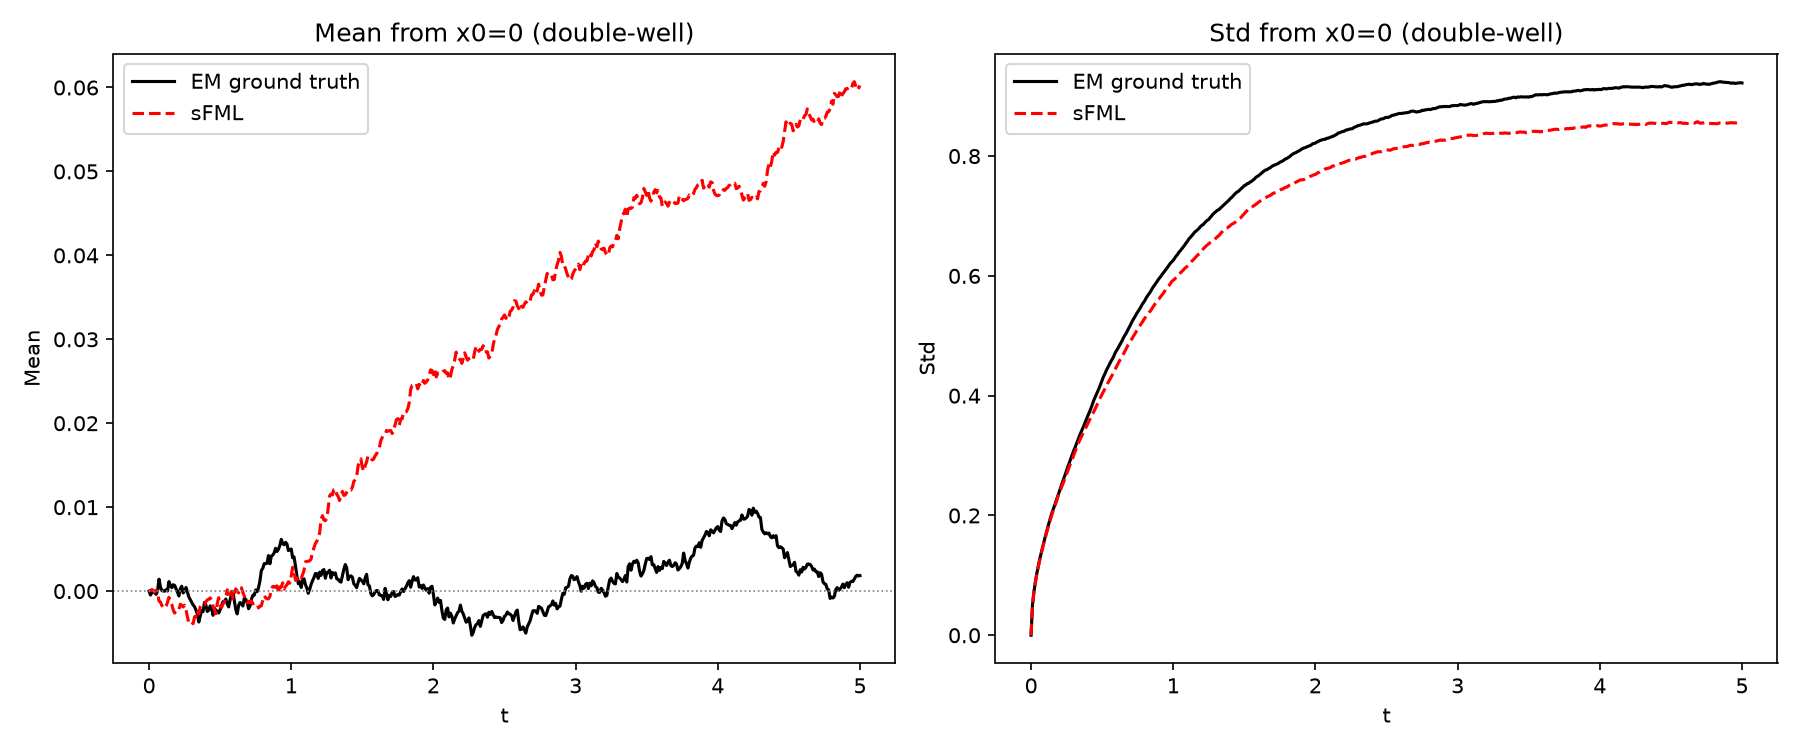
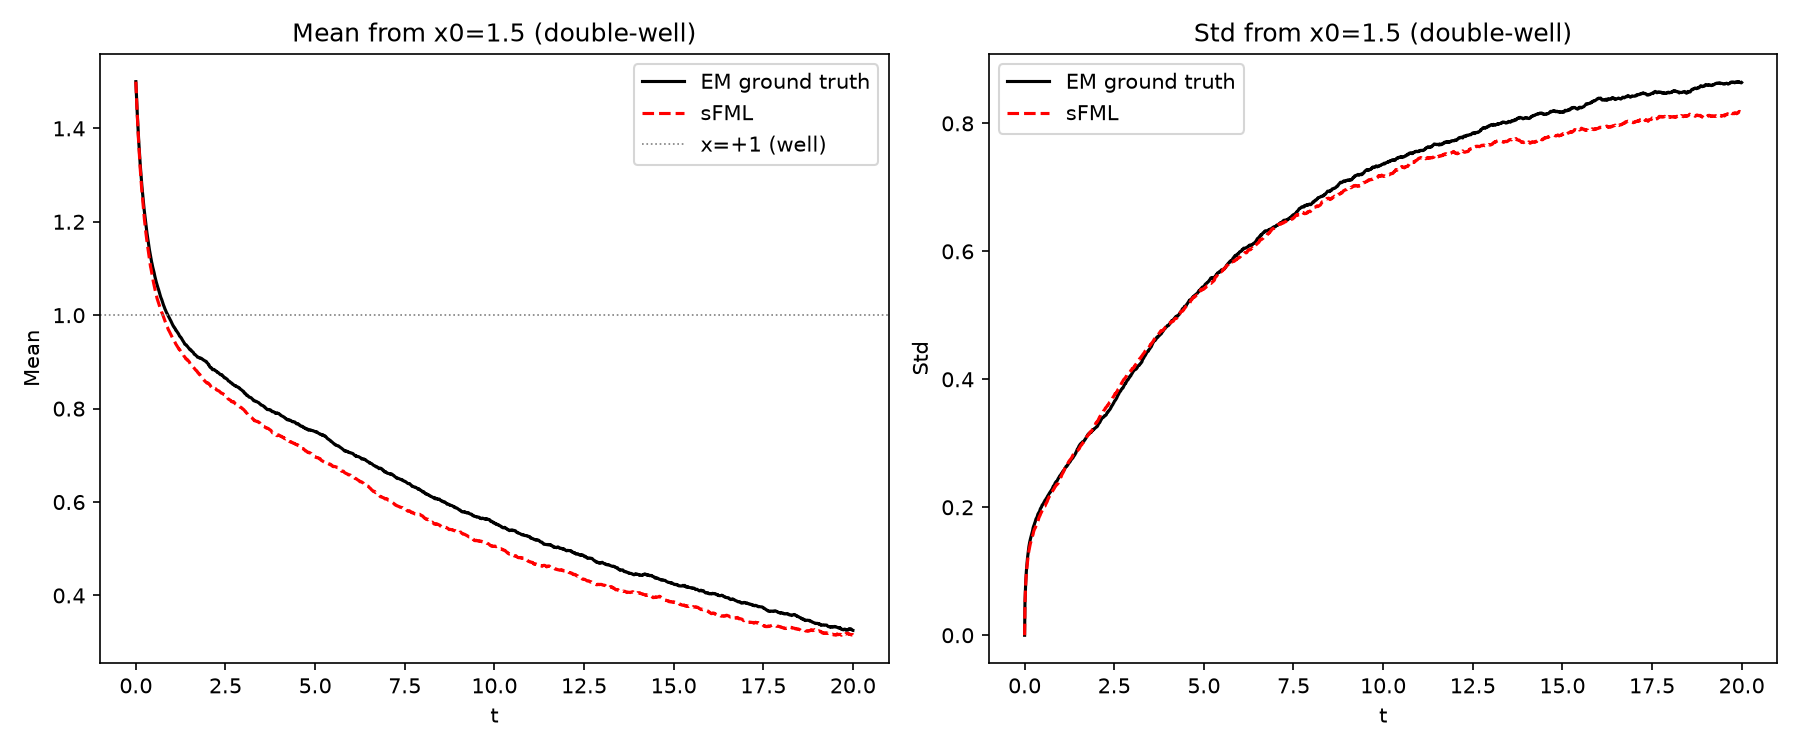
DoubleWell: fix test IC to x0=1.5 (paper protocol), inline EM ground truth

diff --git a/examples/DoubleWell/DoubleWell.py b/examples/DoubleWell/DoubleWell.py
@@ -2,14 +2,15 @@
 Stochastic Flow Map Learning — Double-Well SDE (Chen & Xiu 2024, sec 5.2.3)
 
   dx = (x - x^3) dt + sigma dW,   sigma=0.5,  dt=0.01
-  Test: x0 = 0.0 (top of barrier).
+  Test: x0 = 1.5 (stable well), following paper protocol.
 
 Drift f(x) = x - x^3: stable equilibria at x=+-1, unstable at x=0.
 Constant diffusion g(x) = sigma.
 Stationary distribution: p(x) ∝ exp(4x^2 - 2x^4)  (bimodal, peaks at +-1).
 
-Key diagnostic: generator must produce BIMODAL conditional distributions near x=0.
-A unimodal generator (center-collapsed) will show std~0, missing the symmetry-breaking.
+Key result: training data (T_window=0.4) contains NO inter-well transitions.
+sFML nonetheless learns to produce transitions at the correct timescale (~7 time units).
+Paper uses T=300; we use T=20 (2000 steps) for CPU tractability — enough to show transitions.
 
 Run:  python DoubleWell.py
 """
@@ -79,8 +80,8 @@ generator.eval(); det_net.eval()
 
 # ---- SDE / eval constants ----
 SIGMA, DT = 0.5, 0.01
-X0_TEST, N_SAMPLES = 0.0, 10_000
-N_STEPS = 500   # T = 5.0 — long enough to see full mixing into both wells
+X0_TEST, N_SAMPLES = 1.5, 10_000
+N_STEPS = 2000   # T = 20.0 — enough to show inter-well transitions (mean escape time ~7)
 LATENT_DIM = conf_net["latent_dim"]
 CENTER_GEN = bool(conf_gan.get("center_generator", False))
 CENTER_K   = int(conf_gan.get("center_K", 16))
@@ -127,11 +128,25 @@ def p_stationary(x):
     return np.exp(4*x**2 - 2*x**4) / Z_const
 
 
+# ---- inline EM ground truth from x0=1.5 ----
+# test_data was generated from x0=0 so we produce EM ground truth on-the-fly (numpy only).
+print("Generating EM ground truth from x0=1.5 ...")
+rng_em = np.random.default_rng(0)
+em_traj = np.empty((N_SAMPLES, N_STEPS + 1), dtype=np.float64)
+em_traj[:, 0] = X0_TEST
+x_em = np.full(N_SAMPLES, float(X0_TEST))
+for _s in range(N_STEPS):
+    x_em = x_em + (x_em - x_em**3) * DT + SIGMA * np.sqrt(DT) * rng_em.standard_normal(N_SAMPLES)
+    em_traj[:, _s + 1] = x_em
+mean_gt = em_traj.mean(axis=0)
+std_gt  = em_traj.std(axis=0)
+print("EM ground truth done.")
+
+
 # ============================================================
-# Plot 1: Phase-1 diagnostic — D_theta rollout from x0=0
-# x0=0 is unstable: det_net should stay near 0 (mean is 0 by symmetry)
-# while std grows.  D_theta alone is deterministic, so it will track
-# the mean trajectory (x→0 is unstable under det flow → should stay ~0).
+# Plot 1: Phase-1 diagnostic — D_theta rollout from x0=1.5
+# x0=1.5 is in the right well (f(1.5)=-1.875, strongly attracted to +1).
+# D_theta should track the EM mean closely — good Phase 1 test.
 # ============================================================
 u0 = torch.tensor(to_norm(X0_TEST), dtype=torch_dtype, device=device)
 det_traj = [float(X0_TEST)]
@@ -141,36 +156,32 @@ with torch.no_grad():
         u = det_net(u)
         det_traj.append(float(to_phys(u.cpu().numpy())[0]))
 
-# EM ground truth mean from test set
-gt = test_data[:, 0, :N_STEPS + 1]
-mean_gt = gt.mean(axis=0)
-
 plt.figure(figsize=(8, 5))
 plt.plot(t_arr, mean_gt, 'k-', label='EM ground truth mean')
 plt.plot(t_arr, det_traj, 'b--', label='D_theta rollout (det)')
-plt.axhline(0, color='gray', lw=0.8, ls=':')
+plt.axhline(1.0, color='gray', lw=0.8, ls=':', label='stable fixed point x=1')
 plt.xlabel('t'); plt.ylabel('x')
-plt.title('Phase 1: D_theta rollout vs EM mean  (x0=0, double-well)')
+plt.title('Phase 1: D_theta rollout vs EM mean  (x0=1.5, double-well)')
 plt.legend(); plt.tight_layout()
 plt.savefig(save_path + "/det_rollout.png", dpi=150); plt.close()
 print("Saved det_rollout.png")
 
 # ============================================================
-# Plot 2: Mean & Std from x0=0 vs EM ground truth
-# Mean stays ~0 by symmetry; std rises from 0 → ~1 as trajectories
-# fall into one of the two wells.
+# Plot 2: Mean & Std from x0=1.5 vs EM ground truth.
+# Mean starts at 1.5 → decays to ~1 (mean first-passage away from right well
+# is ~7 time units, so for T=20 some transitions appear and the mean drops).
+# Std rises as trajectories eventually begin switching to -1 well.
 # ============================================================
 print("Running stochastic prediction ...")
 ens = stochastic_predict(X0_TEST, N_SAMPLES, N_STEPS)
 mean_pred, std_pred = ens.mean(axis=0), ens.std(axis=0)
-std_gt = gt.std(axis=0)
 
 fig, ax = plt.subplots(1, 2, figsize=(12, 5))
 ax[0].plot(t_arr, mean_gt, 'k-', label='EM ground truth'); ax[0].plot(t_arr, mean_pred, 'r--', label='sFML')
-ax[0].axhline(0, color='gray', lw=0.8, ls=':')
-ax[0].set_xlabel('t'); ax[0].set_ylabel('Mean'); ax[0].set_title('Mean from x0=0 (double-well)'); ax[0].legend()
+ax[0].axhline(1.0, color='gray', lw=0.8, ls=':', label='x=+1 (well)')
+ax[0].set_xlabel('t'); ax[0].set_ylabel('Mean'); ax[0].set_title('Mean from x0=1.5 (double-well)'); ax[0].legend()
 ax[1].plot(t_arr, std_gt, 'k-', label='EM ground truth'); ax[1].plot(t_arr, std_pred, 'r--', label='sFML')
-ax[1].set_xlabel('t'); ax[1].set_ylabel('Std'); ax[1].set_title('Std from x0=0 (double-well)'); ax[1].legend()
+ax[1].set_xlabel('t'); ax[1].set_ylabel('Std'); ax[1].set_title('Std from x0=1.5 (double-well)'); ax[1].legend()
 plt.tight_layout(); plt.savefig(save_path + "/mean_std.png", dpi=150); plt.close()
 print("Saved mean_std.png")
 
@@ -228,24 +239,23 @@ plt.savefig(save_path + "/stationary_dist.png", dpi=150); plt.close()
 print("Saved stationary_dist.png")
 
 # ============================================================
-# Plot 5: Conditional distribution one step from x=0 (barrier top)
-# Key test: must be BIMODAL. One-step EM: p(x1|x0=0) ~ N(0, sigma^2 dt)
-# (narrow Gaussian, since dt=0.01). Over longer rollout the bimodality
-# develops. Show conditional at t=0.5 (50 steps) for visual drama.
+# Plot 5: Conditional distributions from x0=1.5 at T=1 and T=20.
+# T=1 (100 steps): narrow near +1, still in right well.
+# T=20 (2000 steps, full rollout): bimodal — some trajectories have
+# crossed to -1 well, showing sFML has learned transition dynamics.
+# Key test: paper's headline result (§5.2.3). Both panels use `ens`
+# already computed above (no extra stochastic_predict call).
 # ============================================================
-N_COND_STEPS = 50   # T=0.5: trajectories are starting to split
-cond_ens = stochastic_predict(0.0, N_SAMPLES, N_COND_STEPS)
-cond_samples = cond_ens[:, -1]
+H1, H2 = 100, N_STEPS   # T=1, T=20
 
-# EM ground truth from test set at same horizon
-gt_cond = test_data[:, 0, N_COND_STEPS]
-
-fig, axc = plt.subplots(figsize=(7, 5))
-axc.hist(gt_cond, bins=80, density=True, alpha=0.5, label=f'EM ground truth (T={N_COND_STEPS*DT:.2f})')
-axc.hist(cond_samples, bins=80, density=True, alpha=0.5, label=f'sFML (T={N_COND_STEPS*DT:.2f})')
-axc.set_xlabel('x'); axc.set_ylabel('Density')
-axc.set_title(f'Conditional distribution from x0=0 at T={N_COND_STEPS*DT:.2f} (double-well)')
-axc.legend(); plt.tight_layout()
+fig, axes = plt.subplots(1, 2, figsize=(12, 5))
+for ax, H in zip(axes, [H1, H2]):
+    ax.hist(em_traj[:, H], bins=80, density=True, alpha=0.5, label='EM ground truth')
+    ax.hist(ens[:, H],     bins=80, density=True, alpha=0.5, label='sFML')
+    ax.set_xlabel('x'); ax.set_ylabel('Density')
+    ax.set_title(f'Conditional from x0=1.5 at T={H*DT:.1f}')
+    ax.legend()
+plt.tight_layout()
 plt.savefig(save_path + "/conditional_dist.png", dpi=150); plt.close()
 print("Saved conditional_dist.png")
 
